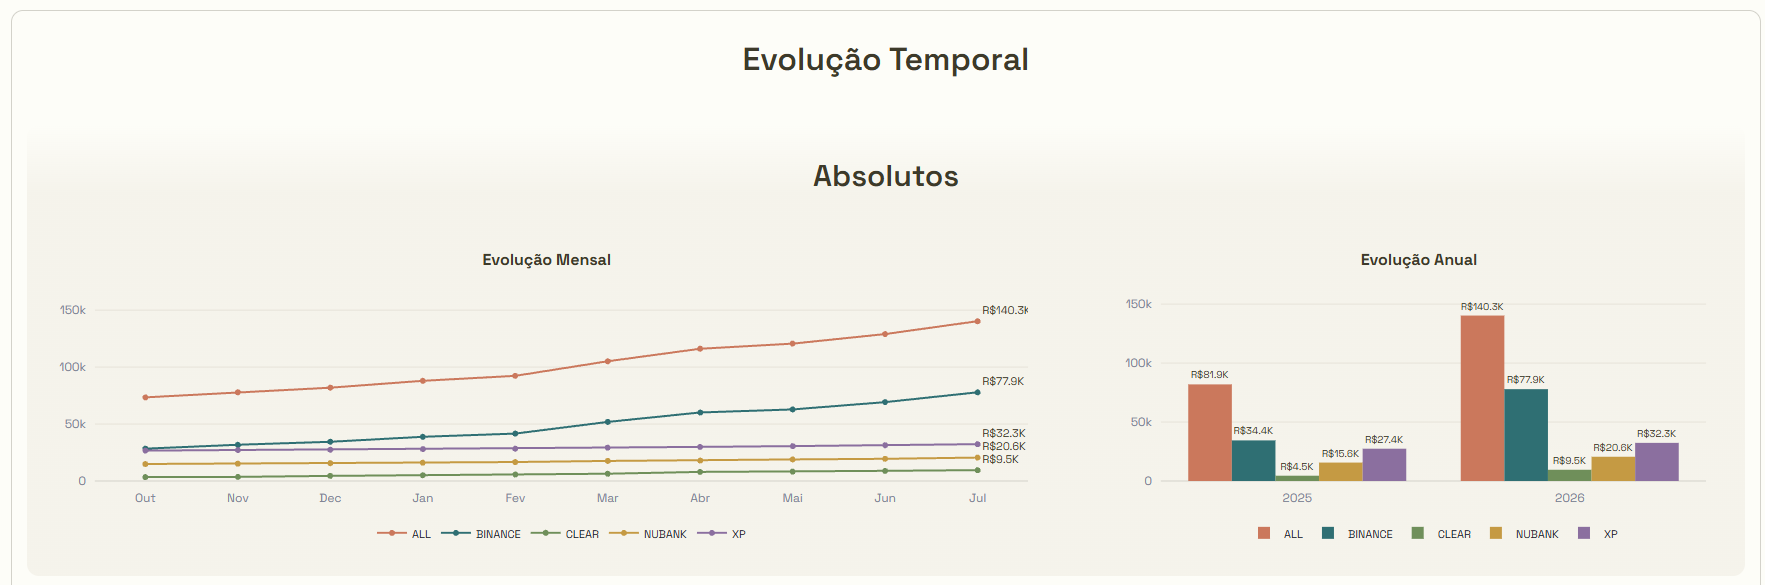
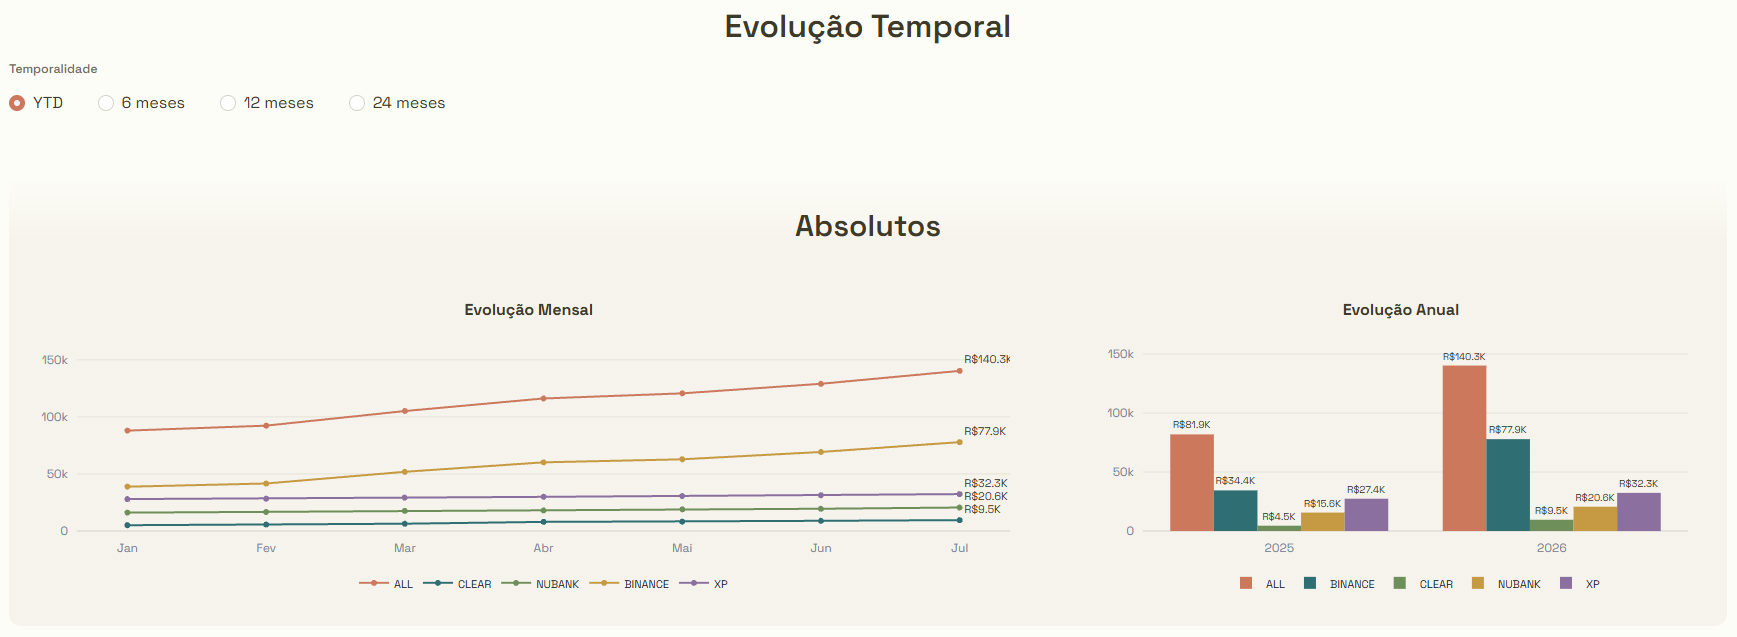
Update README temporality docs and chart screenshot

diff --git a/README.MD b/README.MD
@@ -22,7 +22,9 @@ A primeira área da Home mostra o total consolidado do mês, os atalhos para cad
 
 ### Evolução temporal em valores absolutos 📈
 
-Essa seção mostra a evolução do patrimônio ao longo do tempo. O gráfico mensal acompanha a linha de cada instituição e o consolidado geral. O gráfico anual resume o último snapshot disponível de cada ano, evitando que um mesmo ano apareça com múltiplos registros.
+Essa seção mostra a evolução do patrimônio em valores absolutos. O gráfico mensal acompanha a linha de cada instituição e o consolidado geral, enquanto o gráfico anual compara o último snapshot disponível de cada ano, evitando que um mesmo ano apareça com múltiplos registros.
+
+> A opção de temporalidade controla a janela exibida nos gráficos de linha de evolução mensal da página atual. É possível alternar entre `YTD`, `6 meses`, `12 meses` e `24 meses`; essa escolha afeta os gráficos mensais de linha em valores absolutos e em variações percentuais, sem alterar os gráficos anuais, tabelas, cards ou distribuições.
 
 ![Evolução temporal em valores absolutos](docs/images/03-evolucao-absolutos.png)
 
